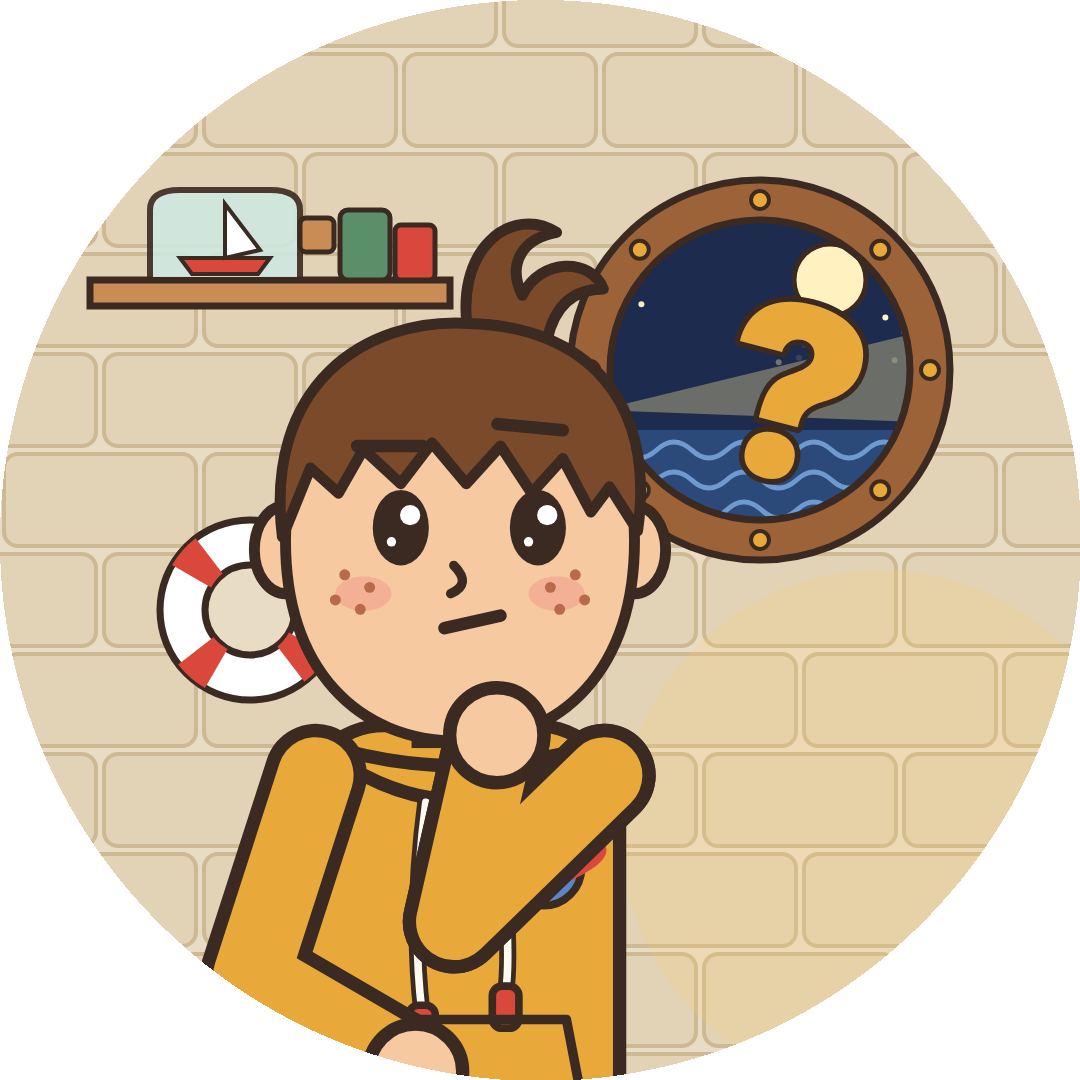
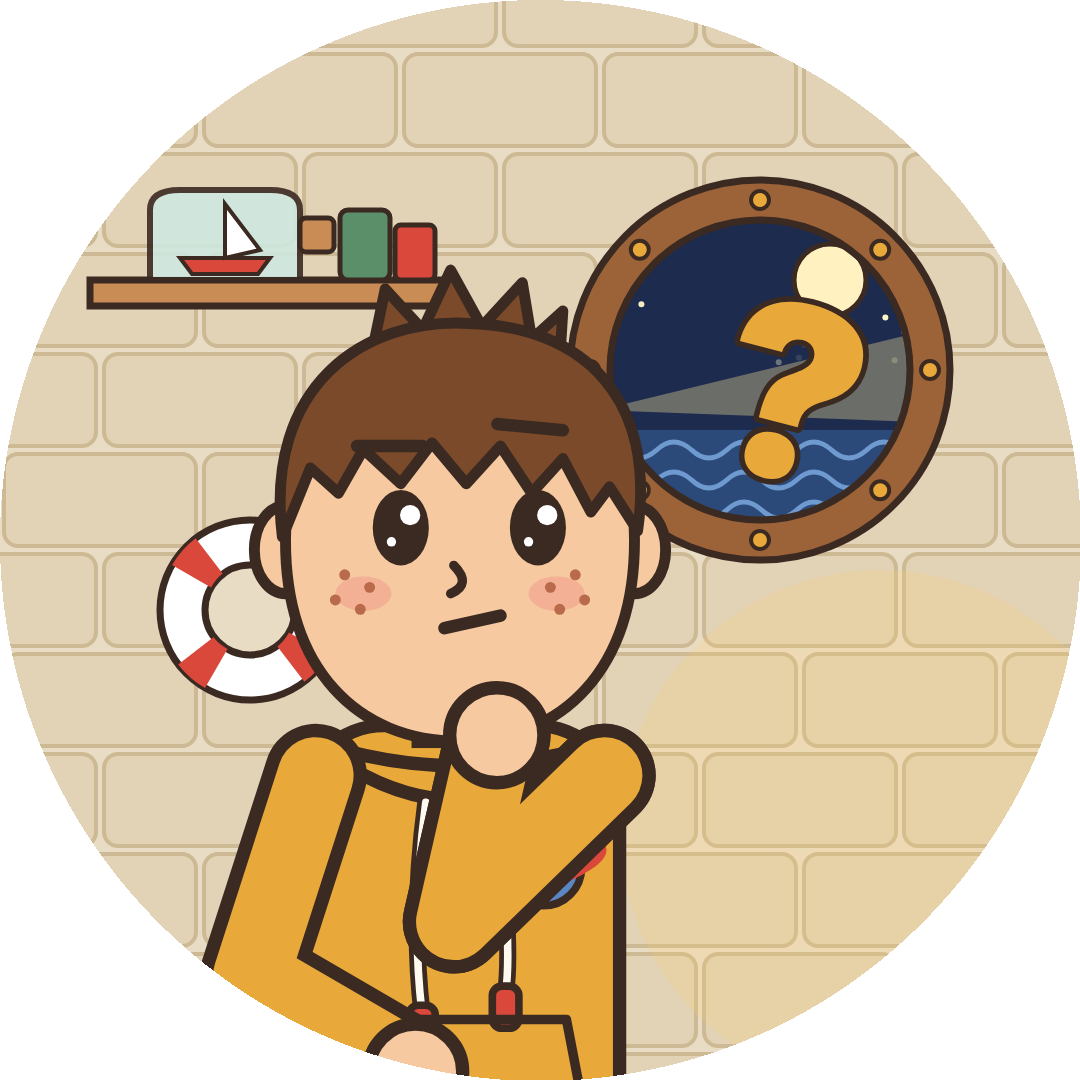
Shnurok: replace the tall curl with short spiky hair
Claude-Session: https://claude.ai/code/session_01FMPcn1gTY6X1SxnGQfzkF6

Changed region(s): [[0.3361, 0.1833, 0.5806, 0.3056]]

diff --git a/videos/dvazhdy/src/cartoon/parts.tsx b/videos/dvazhdy/src/cartoon/parts.tsx
@@ -350,7 +350,7 @@ export const Char: React.FC<CharProps> = (p) => {
 					{hair === 'boy' && <path d="M -114 -4 C -124 -96 -64 -138 0 -136 C 64 -138 124 -96 114 -4 L 80 -40 L 50 -20 L 20 -44 L -14 -22 L -44 -44 L -76 -22 Z" fill={hairCol} stroke={OL} strokeWidth={OW} strokeLinejoin="round" />}
 					{hair === 'lyokha' && (
 						<g>
-							<path d="M 6 -128 C -6 -186 34 -214 62 -196 C 40 -192 30 -176 40 -156 C 52 -180 84 -180 92 -160 C 70 -160 60 -146 56 -128 Z" fill={hairCol} stroke={OL} strokeWidth={OW} strokeLinejoin="round" />
+							<path d="M -56 -122 L -48 -160 L -24 -134 L -6 -172 L 14 -136 L 40 -164 L 46 -128 L 66 -146 L 64 -114 Z" fill={hairCol} stroke={OL} strokeWidth={OW} strokeLinejoin="round" />
 							<path d="M -114 -2 C -126 -98 -62 -142 6 -138 C 80 -136 126 -90 114 -6 L 96 -34 L 84 -18 L 66 -52 L 46 -30 L 26 -60 L 4 -36 L -18 -62 L -38 -36 L -62 -58 L -78 -30 L -96 -46 Z" fill={hairCol} stroke={OL} strokeWidth={OW} strokeLinejoin="round" />
 						</g>
 					)}

diff --git a/videos/dvazhdy/src/series/Shnurok.tsx b/videos/dvazhdy/src/series/Shnurok.tsx
@@ -5,7 +5,7 @@ import {C, Char, CharProps, OL, OW} from '../cartoon/parts';
 import {Room} from './Keeper';
 
 // Шнурок — главный герой канала «Вселенная Лёхи». Прозвище — по шнуркам на худи.
-// Вихор на макушке, длинные шнурки худи с красными наконечниками, веснушки, охристое худи с нашивкой-планетой, синие джинсы.
+// Торчащие прядки-ёжик на макушке, длинные шнурки худи с красными наконечниками, веснушки, охристое худи с нашивкой-планетой, синие джинсы.
 
 export const SHNUROK = {
 	hair: '#7a4a2a',

diff --git a/CLAUDE.md b/CLAUDE.md
@@ -51,7 +51,7 @@
 ## Персонажи (код: `videos/dvazhdy/src/cartoon/parts.tsx` → `Char`)
 
 - Голова-овал (не квадрат), простое лицо: крупные чёрные глаза-овалы с двумя бликами, румянец, маленький нос-крючок.
-- **Шнурок — главный герой канала «Вселенная Лёхи»** (код: `Shnurok` в `videos/dvazhdy/src/series/Shnurok.tsx`, лист: `videos/shnurok/sheet.png`, аватарка: `videos/shnurok/avatar.png`): молодой любопытный парень-рассказчик. Пропорции как у деда Савелия (`headS={0.82} bodyS={1.14} headDrop={18}`), каштановый вихор на макушке (`hair="lyokha"`, `#7a4a2a`), веснушки, охристое худи `#e8a93a` с капюшоном, длинными белыми шнурками с красными наконечниками (отсюда прозвище) и нашивкой-планетой на груди, синие джинсы `#3d5a8a`. Фирменная поза — «думает» (`thinking`): рука у подбородка, бровь поднята, рядом жёлтый «?».
+- **Шнурок — главный герой канала «Вселенная Лёхи»** (код: `Shnurok` в `videos/dvazhdy/src/series/Shnurok.tsx`, лист: `videos/shnurok/sheet.png`, аватарка: `videos/shnurok/avatar.png`): молодой любопытный парень-рассказчик. Пропорции как у деда Савелия (`headS={0.82} bodyS={1.14} headDrop={18}`), каштановые волосы с короткими торчащими прядками-ёжиком на макушке (`hair="lyokha"`, `#7a4a2a`), веснушки, охристое худи `#e8a93a` с капюшоном, длинными белыми шнурками с красными наконечниками (отсюда прозвище) и нашивкой-планетой на груди, синие джинсы `#3d5a8a`. Фирменная поза — «думает» (`thinking`): рука у подбородка, бровь поднята, рядом жёлтый «?».
 - **Дед Савелий, смотритель маяка:** `headS={0.82} bodyS={1.14} headDrop={18}`, `hair="old"`, короткая борода клинышком (`beard`), красный нос (`nose`), рыбацкая шляпа и дождевик `#f2c230`, синие брюки `#3d4a66`. Голову, бороду и пропорции НЕ менять — утверждены.
 - **Кот Барсик** (живой компас — всегда знает, где север и где дом): пухлый серо-голубой (`#8fa3bf`), белая грудка и лапки, зелёные глаза, полоски на лбу, красный морской платочек. Код: `Cat` в `videos/dvazhdy/src/series/Keeper.tsx`.
 - Новые персонажи — в той же манере (`Char` с другими волосами/одеждой), но со своими узнаваемыми деталями. Не копировать чужих персонажей и чужие ролики.
